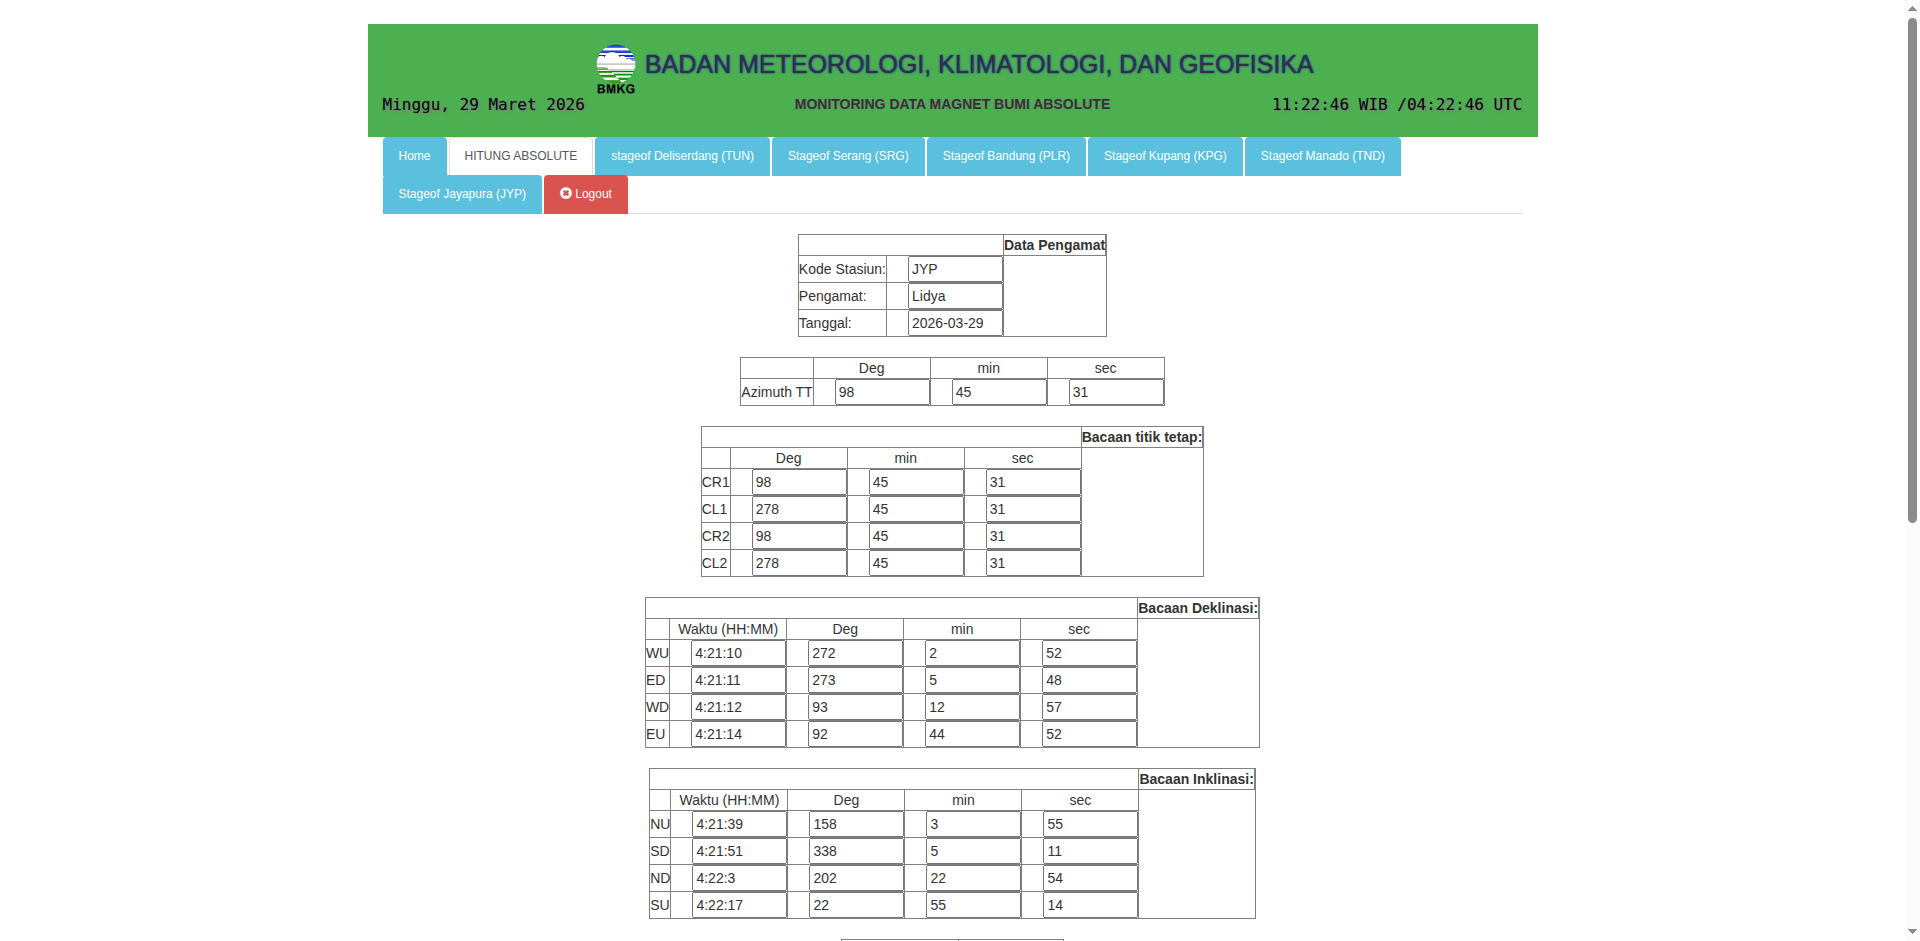
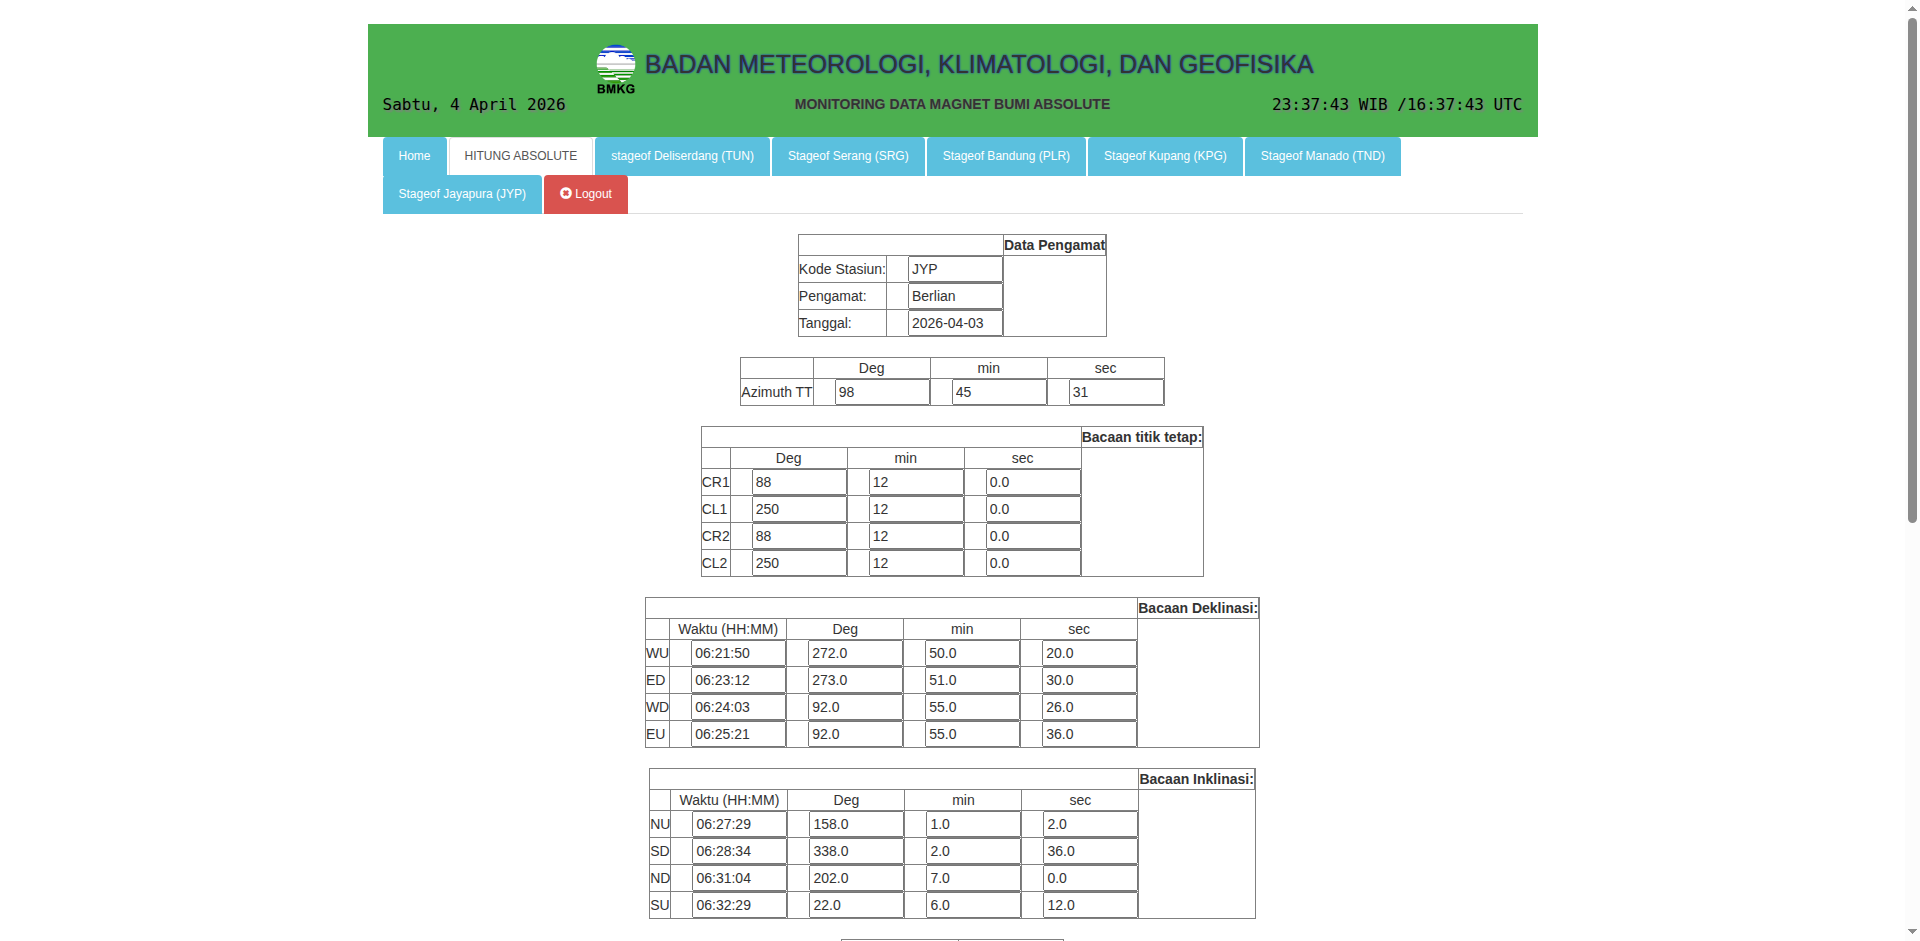
modify legend on felt map

diff --git a/repository/templates/repository/json_analysis.html b/repository/templates/repository/json_analysis.html
@@ -117,7 +117,8 @@
                   <hr>
                   <div class="small">
                     <div class="mb-3"><label class="form-label fw-bold">Basemap</label><select id="selB" class="form-select form-select-sm" onchange="changeBasemap()"><option value="Oceans">Esri Ocean</option><option value="Topographic">Esri Topographic</option><option value="Imagery">Esri Imagery</option><option value="Gray">Esri Light Gray</option></select></div>
-                    <div class="form-check mb-2"><input class="form-check-input" type="checkbox" id="swSlab" checked onchange="toggleSlab()"><label class="form-check-label small">Tampilkan Slab</label></div>
+                    <div class="form-check mb-2"><input class="form-check-input" type="checkbox" id="swSlab" checked onchange="toggleSlab()"><label class="form-check-label small">Tampilkan Slab (Peta 1)</label></div>
+                    <div class="form-check mb-2"><input class="form-check-input" type="checkbox" id="swSlabFelt" checked onchange="toggleSlabFelt()"><label class="form-check-label small">Tampilkan Slab (Peta 2)</label></div>
                     <div class="form-check"><input class="form-check-input" type="checkbox" id="swFaults" checked onchange="toggleFaults()"><label class="form-check-label small">Tampilkan Patahan</label></div>
                   </div>
                 </div>
@@ -172,7 +173,18 @@
                     <div id="mapFelt"></div>
 
                     <div class="legend-grid">
-                        <div class="legend-box"><img src="{% static 'repository/images/legenda.png' %}"></div>
+                        <div class="legend-box">
+                            <span class="legend-t">Legenda</span>
+                              <svg width="60" height="60" viewBox="0 0 100 100" xmlns="http://www.w3.org/2000/svg" style="margin-top: 8px;">
+                                <!-- Black outline star (underneath) -->
+                                <polygon points="50,15 61,40 88,40 67,57 78,82 50,65 22,82 33,57 12,40 39,40" 
+                                         fill="#000000" stroke="none"/>
+                                <!-- Red star (on top) -->
+                                <polygon points="50,17 59,38 86,38 68,55 76,80 50,63 24,80 32,55 14,38 42,38" 
+                                         fill="#FF0000" stroke="none"/>
+                              </svg>
+                            <div style="font-size: 0.7rem; margin-top: 5px;">Pusat Gempa Dirasakan</div>
+                        </div>
                         <div class="legend-box"><img src="{% static 'repository/images/keterangan-slab.png' %}"></div>
                         <div class="legend-box">
                             <div class="fw-bold mt-2" style="font-size: 0.85rem;"><span>{{ upt }}</span></div>
@@ -436,6 +448,20 @@
     if (typeof GarisPantaiPapua !== 'undefined') L.geoJSON(GarisPantaiPapua, { style: { color: "#00FFFF", weight: 1 } }).addTo(mapFeltInstance);
     if (typeof batas_laut_indonesia !== 'undefined') L.geoJSON(batas_laut_indonesia, { style: { color: "#3b82f6", weight: 1, dashArray: '5, 5' } }).addTo(mapFeltInstance);
 
+    // Tambahkan slab layer ke peta dirasakan
+    let slabLayerFelt = L.layerGroup().addTo(mapFeltInstance);
+    const slabColors = [[0,20,'rgb(245,0,0)'],[20,40,'rgb(250,75,0)'],[40,60,'rgb(252,118,0)'],[60,80,'rgb(253,160,0)'],[80,100,'rgb(250,160,0)'],[100,120,'rgb(245,245,0)'],[120,200,'rgb(210,247,0)'],[200,300,'rgb(169,247,0)'],[300,400,'rgb(128,247,0)'],[400,500,'rgb(86,247,0)'],[500,660,'rgb(0,245,0)']];
+
+    try {
+      d3.json("{% static 'repository/js/slab_indonesia_usgs.json' %}").then(data => {
+        if (data) L.geoJSON(data, { style: function(f) {
+            let d = f.properties.DEPTH || 0; let c = 'transparent';
+            for (let r of slabColors) if (d >= r[0] && d <= r[1]) { c = r[2]; break; }
+            return { color: c, weight: 1.5, opacity: 0.8, fillOpacity: 0 };
+        }}).addTo(slabLayerFelt);
+      });
+    } catch(e) {}
+
     // Plot awal ke Peta dan simpan ke Object feltMarkers berdasakan ID loop
     feltData.forEach((item, index) => {
         let rowId = (index + 1).toString();
@@ -545,6 +571,7 @@
   function changeBasemap() { if(mapInstance) { mapInstance.removeLayer(baseLayer); baseLayer = L.esri.basemapLayer(document.getElementById('selB').value).addTo(mapInstance); } }
   function toggleSlab() { if(mapInstance && slabLayer) { if(document.getElementById('swSlab').checked) mapInstance.addLayer(slabLayer); else mapInstance.removeLayer(slabLayer); } }
   function toggleFaults() { if(mapInstance && faultsLayer) { if(document.getElementById('swFaults').checked) mapInstance.addLayer(faultsLayer); else mapInstance.removeLayer(faultsLayer); } }
+  function toggleSlabFelt() { if(mapFeltInstance && slabLayer) { if(document.getElementById('swSlabFelt').checked) mapFeltInstance.addLayer(slabLayer); else mapFeltInstance.removeLayer(slabLayer); } }
 
   // --- CHARTS ---
   Chart.register(ChartDataLabels);

diff --git a/repository/templates/repository/json_upload.html b/repository/templates/repository/json_upload.html
@@ -14,7 +14,7 @@
               <i class="bi bi-cloud-arrow-up"></i>
             </div>
             <h1 class="text-3xl font-bold text-gray-900 mb-2">Upload Data JSON</h1>
-            <p class="text-gray-600">Unggah file JSON seismic data untuk analisis</p>
+            <p class="text-gray-600">Unggah file JSON seismic data untuk analisis, data bisa didownload di <a href="http://172.19.2.185" target="_blank" class="text-indigo-600 hover:underline">sini</a>, kemudian pilih menu Statistik Pengiriman</p>
           </div>
 
           {% if error %}

diff --git a/hujan/tasks.py b/hujan/tasks.py
@@ -1,29 +1,52 @@
 import json
-from datetime import datetime
+from datetime import datetime, timedelta
 import urllib.request
+import logging
 from celery import shared_task
+from django.utils import timezone
+from django.conf import settings
 from hujan.models import Hujan
+
+logger = logging.getLogger(__name__)
 
 @shared_task
 def import_today_hujan_data():
     """
-    Fetches today's rain data from an API and saves it to the database.
+    Fetches today's rain data from WIT API and saves it to the database.
+    
+    TIMEZONE CONTEXT:
+    - API is in WIT (UTC+9)
+    - Django server is in UTC
+    - Users input data at 08:30 WIT = 23:30 UTC (previous day)
+    - Task scheduled to run at 00:15 UTC = 09:15 WIT (buffer after user input)
+    
+    Returns:
+        dict: Status with count of imported records
     """
-    url = 'http://36.91.166.188/api/hujans/today'
+    url = getattr(settings, 'HUJAN_API_URL', 'http://36.91.166.188/api/hujans/today')
     
     try:
-        with urllib.request.urlopen(url) as response:
+        with urllib.request.urlopen(url, timeout=10) as response:
             raw_data = response.read()
             data = json.loads(raw_data.decode('utf-8'))
+        logger.info(f"Successfully fetched data from {url}")
+    except urllib.error.URLError as e:
+        logger.error(f"Network error fetching data from API: {e}")
+        return {'status': 'error', 'message': f'Network error: {e}', 'imported': 0}
+    except json.JSONDecodeError as e:
+        logger.error(f"JSON decode error from API: {e}")
+        return {'status': 'error', 'message': f'Invalid JSON response: {e}', 'imported': 0}
     except Exception as e:
-        print(f"Error fetching data from API: {e}")
-        return
+        logger.error(f"Unexpected error fetching data from API: {e}")
+        return {'status': 'error', 'message': str(e), 'imported': 0}
 
     if 'data' not in data or not isinstance(data['data'], list):
-        print("Invalid data format. 'data' key not found or is not a list.")
-        return
+        logger.warning("Invalid data format. 'data' key not found or is not a list.")
+        return {'status': 'error', 'message': 'Invalid data format', 'imported': 0}
 
     new_entries = []
+    skipped = 0
+    errors = 0
     
     for item in data['data']:
         try:
@@ -31,21 +54,41 @@ def import_today_hujan_data():
             obs = float(item['obs'])
 
             # Check for existing entry to prevent duplicates based on tanggal and obs
-            if not Hujan.objects.filter(tanggal=tanggal, obs=obs).exists():
-                new_entries.append(Hujan(
-                    tanggal=tanggal,
-                    hilman=float(item.get('hilman', 0)),
-                    obs=obs,
-                    kategori=item.get('kategori', ''),
-                    keterangan=item.get('keterangan'),
-                    petugas=item.get('petugas') or 'staff ops'
-                ))
-        except Exception as e:
-            print(f"Skipping malformed entry: {e}. Data: {item}")
+            # Use exists() for efficiency instead of filtering then checking
+            if Hujan.objects.filter(tanggal=tanggal, obs=obs).exists():
+                skipped += 1
+                continue
+
+            new_entries.append(Hujan(
+                tanggal=tanggal,
+                hilman=float(item.get('hilman', 0)),
+                obs=obs,
+                kategori=item.get('kategori', ''),
+                keterangan=item.get('keterangan'),
+                petugas=item.get('petugas') or 'staff ops'
+            ))
+        except (ValueError, KeyError, TypeError) as e:
+            logger.warning(f"Skipping malformed entry: {e}. Data: {item}")
+            errors += 1
             continue
 
     if new_entries:
         Hujan.objects.bulk_create(new_entries)
-        print(f"✅ Successfully imported {len(new_entries)} new rain records.")
+        logger.info(f"✅ Successfully imported {len(new_entries)} new rain records. "
+                   f"(Skipped: {skipped} duplicates, {errors} errors)")
+        return {'status': 'success', 'imported': len(new_entries), 'skipped': skipped, 'errors': errors}
     else:
-        print("No new rain records to import.")
+        logger.info(f"No new rain records to import. (Skipped: {skipped} duplicates, {errors} errors)")
+        return {'status': 'success', 'imported': 0, 'skipped': skipped, 'errors': errors}
+
+
+@shared_task
+def import_hujan_data_retry():
+    """
+    Retry task for importing rain data.
+    Runs 2 hours after the main import to catch any delayed data updates.
+    
+    Useful as a safety net in case API was slow or data was delayed.
+    """
+    logger.info("Running retry import for hujan data...")
+    return import_today_hujan_data()

diff --git a/datin_project/settings.py b/datin_project/settings.py
@@ -173,29 +173,40 @@ CELERY_RESULT_SERIALIZER = 'json'
 CELERY_TASK_SERIALIZER = 'json'
 
 
-
+HUJAN_API_URL = 'http://36.91.166.188/api/hujans/today'
 CELERY_BEAT_SCHEDULE = {
     'import-earthquake-data-every-minute': {
         'task': 'repository.tasks.sync_earthquake_data_task',
         'schedule': crontab(minute='*'),
     },
+    
+    # PRIMARY IMPORT: Run at 00:15 UTC = 09:15 WIT
+    # This gives users 45 minutes after 08:30 WIT input time to ensure data is ready
     'import-hujan-data-daily': {
         'task': 'hujan.tasks.import_today_hujan_data',
-        'schedule': crontab(minute=30, hour=23),
+        'schedule': crontab(minute=15, hour=0),  # 00:15 UTC = 09:15 WIT
     },
+    
+    # RETRY IMPORT: Run at 02:15 UTC = 11:15 WIT
+    # Catches any delayed data updates or API availability issues
+    'import-hujan-data-retry': {
+        'task': 'hujan.tasks.import_hujan_data_retry',
+        'schedule': crontab(minute=15, hour=2),  # 02:15 UTC = 11:15 WIT
+    },
+    
     'process-shakemaps-daily': {
         'task': 'repository.tasks.run_process_shakemaps',
-        'schedule': crontab(minute=15, hour=23), # Runs every day at 11:15 PM
+        'schedule': crontab(minute=15, hour=23),  # Runs every day at 23:15 PM
     },
-
-    # --- TAMBAHKAN JADWAL BARU INI ---
+    
     'process-yesterday-nexstorm-db3': {
-        'task': 'lightning.tasks.process_yesterday_nexstorm_file', # Nama task dari @shared_task
-        'schedule': crontab(minute=5, hour=0), # Berjalan setiap hari pukul 00:05
+        'task': 'lightning.tasks.process_yesterday_nexstorm_file',
+        'schedule': crontab(minute=5, hour=0),   # Berjalan setiap hari pukul 00:05
     },
+    
     'export-gmt-history-daily': {
         'task': 'monitor.tasks.export_and_sync_gmt_history',
-        'schedule': crontab(minute=53, hour=21), # Runs every day at 21:37
+        'schedule': crontab(minute=53, hour=21),  # Runs every day at 21:37
     },
 }
 
